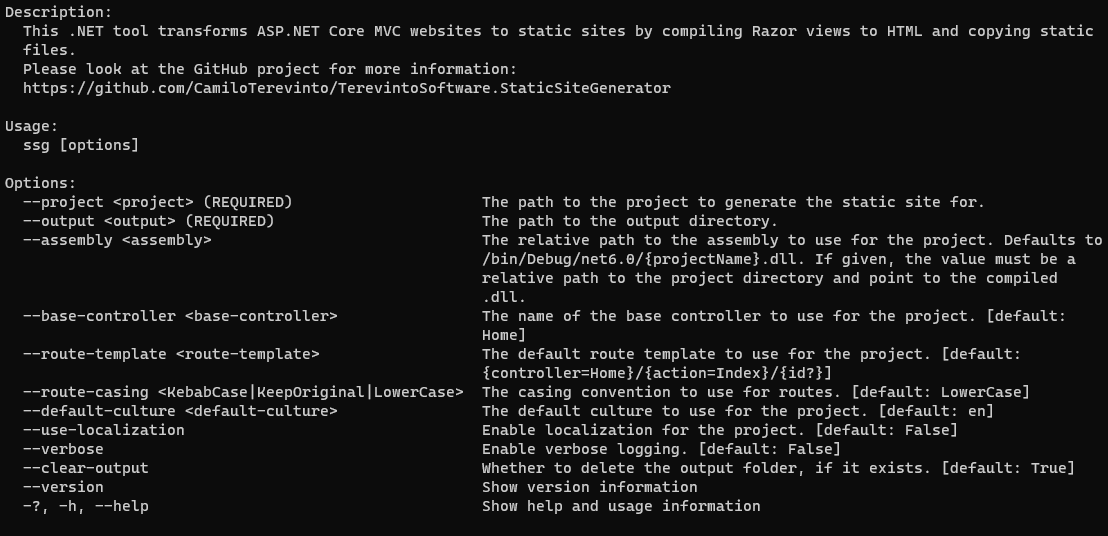
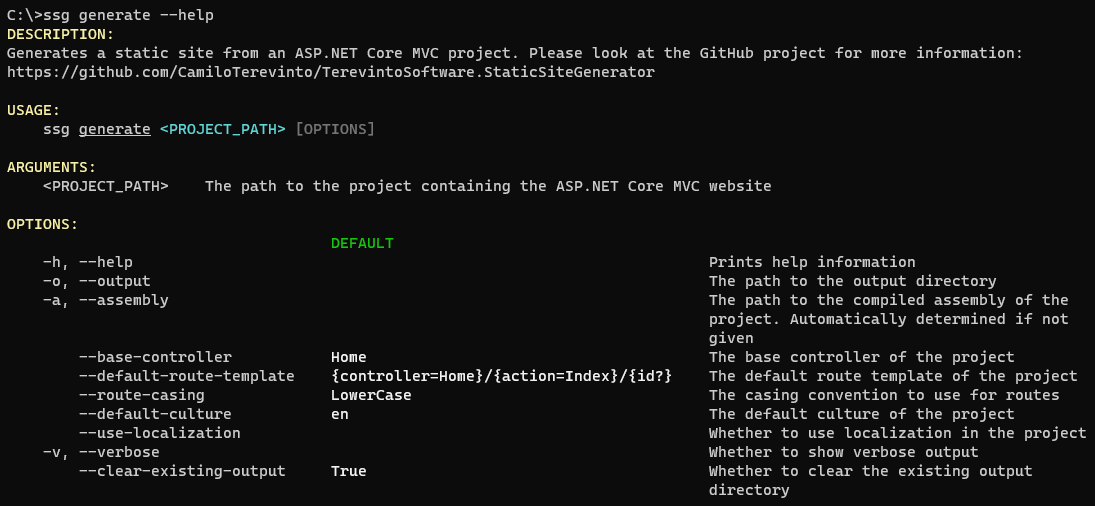
Move to .NET 8 and use latest SSG commands

diff --git a/README.md b/README.md
@@ -1,3 +1,3 @@
 Demo repository for [TerevintoSoftware.StaticSiteGenerator](https://github.com/CamiloTerevinto/TerevintoSoftware.StaticSiteGenerator).
 
-This is intentionally empty. Please take a look at [the website generated by this repository](https://ctssgdemo.z16.web.core.windows.net/index.html).
+This is intentionally empty. Please take a look at [the website generated by this repository](https://www.staticsitegenerator.net/).
